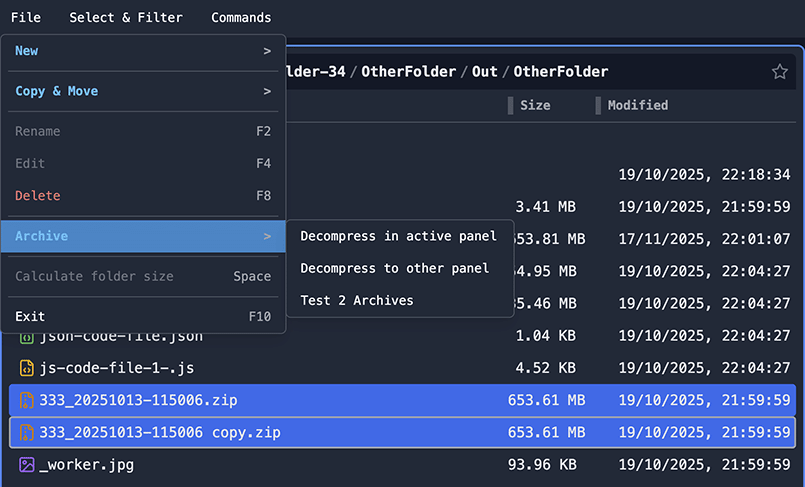
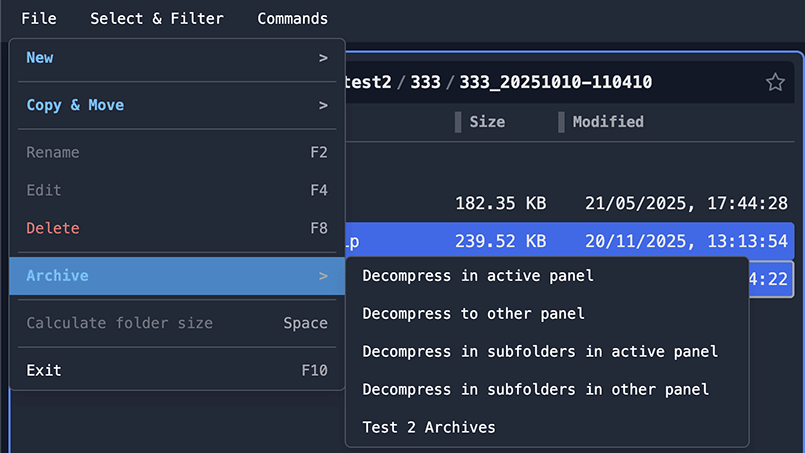
Update readme and Help modal

diff --git a/packages/client/src/components/modals/HelpModal.jsx b/packages/client/src/components/modals/HelpModal.jsx
@@ -461,9 +461,13 @@ const HelpModal = ({ isVisible, onClose }) => {
                         other panel.
                       </li>
                       <li>
-                        <kbd>Decompress</kbd>: Decompresses a selected ZIP
-                        archive to the active or other panel, with progress
-                        tracking.
+                        <kbd>Decompress</kbd>: Decompress one or more selected
+                        ZIP archives into the active or other panel. You can
+                        extract files directly into the destination folder or
+                        choose to extract each archive into its own
+                        archive-named subfolder (with automatic collision
+                        suffixing). A progress dialog displays extraction
+                        progress and handles overwrite prompts.
                       </li>
                       <li>
                         <kbd>Test Archive</kbd>: Verifies the integrity of a

diff --git a/README.md b/README.md
@@ -255,7 +255,7 @@ When running the Electron app, both client and server and the node binaries and 
 
     - **Archive _Submenu_:**
       - <kbd>Compress</kbd>: Compresses the selected items into a zip archive in the active panel or transfers it to the other panel.
-      - <kbd>Decompress</kbd>: Decompresses a selected ZIP archive to the active or other panel, with progress tracking.
+      - <kbd>Decompress</kbd>: Decompress one or more selected ZIP archives into the active or other panel. You can extract files directly into the destination folder or choose to extract each archive into its own archive-named subfolder (with automatic collision suffixing). A progress dialog displays extraction progress and handles overwrite prompts.
       - <kbd>Test Archive</kbd>: Verifies the integrity of a selected ZIP archive, including multiple selected ZIP archives, reporting any corrupt files or general issues.
 
   - **Organization:** Rename and Delete the item.
